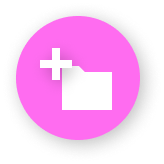
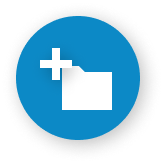
Add new look and buttons

diff --git a/src/stateful_components/Drive/Drive.js b/src/stateful_components/Drive/Drive.js
@@ -10,8 +10,9 @@ import fileUtils from '../../utils/fileUtils';
 import { getBreadcrumbsFromUrl } from '../../utils/url';
 import ACLController from 'your-acl';
 import FileCreation from '../../functional_components/FileCreation/FileCreation';
-import { folder } from '../../assets/icons/externalIcons';
+import folder from '../../assets/icons/Folder.png';
 import fileIcon from '../../assets/icons/File.png';
+import Buttons from '../../functional_components/Buttons/Buttons';
 
 class Drive extends React.Component {
     constructor(props) {
@@ -29,7 +30,7 @@ class Drive extends React.Component {
         this.createFolder = this.createFolder.bind(this);
         this.createFile = this.createFile.bind(this);
         this.followPath = this.followPath.bind(this);
-        this.uploadFile = this.uploadFile.bind(this);
+        this.uploadFolder = this.uploadFolder.bind(this);
         this.loadFile = this.loadFile.bind(this);
         this.loadCurrentFolder = this.loadCurrentFolder.bind(this);
         this.clearSelection = this.clearSelection.bind(this);
@@ -203,8 +204,14 @@ class Drive extends React.Component {
         }
     }
 
-    selectFolder(files) {
-        console.log(files)
+    uploadFolder(files) {
+        for (let file = 0; file < files.length; file++) {
+            fileUtils.uploadFolderOrFile(
+                files[file],
+                this.state.currPath +
+                    encodeURIComponent(files[file].webkitRelativePath)
+            );
+        }
     }
 
     componentWillUnmount() {
@@ -254,9 +261,12 @@ class Drive extends React.Component {
                                 image={fileIcon}
                                 onItemClick={this.loadFile}
                             />
-                            <FileCreation folder onClick={this.createFolder} />
-                            <FileCreation onClick={this.createFile} />
-                            <FileUpload onChange={this.selectFolder} />
+                            <Buttons>
+                                onFileCreation={this.createFile}
+                                onFolderCreation={this.createFolder}
+                                onFolderUpload={this.uploadFolder}
+                                onFileUpload={this.uploadFile}
+                            </Buttons>
                         </div>
                     )}
                 </div>

diff --git a/src/utils/fileUtils.js b/src/utils/fileUtils.js
@@ -1,4 +1,6 @@
 import rdf from 'rdflib';
+import auth from 'solid-auth-client';
+import { folder } from '../assets/icons/externalIcons';
 
 function getContentType(file) {
     const mimeTypes = {
@@ -21,6 +23,45 @@ function getContentType(file) {
     } else {
         return 'folder';
     }
+}
+
+function uploadFolderOrFile(file, url) {
+    const store = rdf.graph();
+    const fetcher = new rdf.Fetcher(store);
+
+    const fileNameFragments = file.name.split('/');
+    const fileName = fileNameFragments[fileNameFragments.length - 1];
+    const fileType = file.type ? file.type : 'text/plain';
+
+    const reader = new FileReader();
+    reader.onload = function() {
+        const data = this.result;
+        const filename = encodeURIComponent(fileName);
+
+        fetcher
+            .webOperation('PUT', url, {
+                data: data,
+                contentType: fileType,
+            })
+            .then((response) => {
+                if (response.status === 201) {
+                    console.log('Successfully uploaded!');
+                }
+            });
+    };
+    reader.readAsArrayBuffer(file);
+
+    // // const fileType
+    // const request = {
+    //     method: 'POST',
+    //     headers: {
+    //         slug: folderName,
+    //         link: '<http://www.w3.org/ns/ldp#BasicContainer>; rel="type"',
+    //         contentType: 'text-turtle',
+    //     },
+    // };
+
+    // auth.fetch(url, request).then(() => {});
 }
 
 function uploadFile(filePath, currPath) {
@@ -48,4 +89,8 @@ function uploadFile(filePath, currPath) {
     reader.readAsArrayBuffer(filePath);
 }
 
-export default { uploadFile: uploadFile, getContentType: getContentType };
+export default {
+    uploadFile: uploadFile,
+    getContentType: getContentType,
+    uploadFolderOrFile: uploadFolderOrFile,
+};

diff --git a/src/functional_components/FileUpload/FileUpload.js b/src/functional_components/FileUpload/FileUpload.js
@@ -1,22 +1,27 @@
 import React from 'react';
-import styles from './FileUpload.module.css';
-import icon from './FileUpload.png';
+import styles from '../FileCreation/FileCreation.module.css';
+import fileIcon from './FileUpload.png';
+import folderIcon from './FolderUpload.png';
 
 const FileUpload = (props) => {
     return (
         <label htmlFor="fileUpload">
-            <img src={icon} className={styles.icon} alt="file upload icon" />
+            <img
+                src={props.folder ? folderIcon : fileIcon}
+                className={props.folder ? styles.icon : styles.icon}
+                alt="file upload icon"
+            />
             <input
                 type="file"
                 onChange={(e) => {
                     props.onChange(e.target.files);
                 }}
-                webkitdirectory="true"
-                mozdirectory="true"
-                msdirectory="true"
-                odirectory="true"
-                directory="true"
-                multiple
+                webkitdirectory={props.folder ? 'true' : undefined}
+                mozdirectory={props.folder ? 'true' : undefined}
+                msdirectory={props.folder ? 'true' : undefined}
+                odirectory={props.folder ? 'true' : undefined}
+                directory={props.folder ? 'true' : undefined}
+                multiple={props.folder ? 'true' : undefined}
                 style={{ display: 'none' }}
                 id="fileUpload"
                 accept="*/*"

diff --git a/src/functional_components/FileCreation/FileCreation.js b/src/functional_components/FileCreation/FileCreation.js
@@ -1,13 +1,25 @@
 import React from 'react';
-import fileStyles from './FileCreation.module.css';
-import folderStyles from './FolderCreation.module.css';
+import styles from './FileCreation.module.css';
 import fileIcon from './FileCreation.png';
-import folderIcon from "./FolderCreation.png";
+import folderIcon from './FolderCreation.png';
 
 const FileCreation = (props) => {
-    const fileCreationMarkup = props.folder ? 
-        <img src={folderIcon} className={folderStyles.icon} onClick={() => props.onClick()} alt="file creation icon" /> : <img src={fileIcon} className={fileStyles.icon} onClick={() => props.onClick()} alt="file creation icon" />
-    
+    const fileCreationMarkup = props.folder ? (
+        <img
+            src={folderIcon}
+            className={styles.icon}
+            onClick={() => props.onClick()}
+            alt="file creation icon"
+        />
+    ) : (
+        <img
+            src={fileIcon}
+            className={styles.icon}
+            onClick={() => props.onClick()}
+            alt="file creation icon"
+        />
+    );
+
     return fileCreationMarkup;
 };
 

diff --git a/src/functional_components/FileCreation/FileCreation.module.css b/src/functional_components/FileCreation/FileCreation.module.css
@@ -1,39 +1,10 @@
 .icon{
-    position: fixed;
-    height: 100px;
-    width: 100px;
-    opacity: .9;
+    height: 80px;
+    width: 80px;
+    opacity: .7;
 }
 
 .icon:hover{
     cursor: pointer;
     opacity: 1;
-}
-
-@media (max-width: 415px){
-    .icon{
-        bottom: 30%;
-        right: 10%;
-    }
-}
-
-@media (min-width: 415px) and (max-width: 1100px){
-    .icon{
-        bottom: 32%;
-        right: 13%;
-    }
-}
-
-@media (min-width: 1100px) and (max-width: 1700px){
-    .icon{
-        bottom: 32%;
-        right: 18%;
-    }
-}
-
-@media (min-width: 1700px){
-    .icon{
-        bottom: 32%;
-        right: 25%;
-    }
 }

diff --git a/src/functional_components/Buttons/Buttons.js b/src/functional_components/Buttons/Buttons.js
@@ -1,0 +1,18 @@
+import React from 'react';
+import styles from './Buttons.module.css';
+import FileUpload from '../FileUpload';
+import FolderUpload from '../FileUpload';
+import FileCreation from '../FileCreation';
+
+const Buttons = (props) => {
+    return (
+        <div className={styles.buttonContainer}>
+            <FileCreation onClick={props.onFileCreation} />
+            <FileCreation folder onClick={props.onFolderCreation} />
+            <FileUpload folder onClick={props.onFolderUpload} />
+            <FileUpload onClick={props.onFileUpload} />
+        </div>
+    );
+};
+
+export default Buttons;

diff --git a/src/functional_components/FileUpload/FileUpload.module.css b/src/functional_components/FileUpload/FileUpload.module.css
@@ -1,39 +1,4 @@
-.icon{
-    position: fixed;
-    height: 100px;
-    width: 100px;
-    opacity: .9;
-}
-
 .icon:hover{
     cursor: pointer;
     opacity: 1;
-}
-
-@media (max-width: 415px){
-    .icon{
-        bottom: 10%;
-        right: 10%;
-    }
-}
-
-@media (min-width: 415px) and (max-width: 1100px){
-    .icon{
-        bottom: 8%;
-        right: 13%;
-    }
-}
-
-@media (min-width: 1100px) and (max-width: 1700px){
-    .icon{
-        bottom: 8%;
-        right: 18%;
-    }
-}
-
-@media (min-width: 1700px){
-    .icon{
-        bottom: 8%;
-        right: 25%;
-    }
 }

diff --git a/src/functional_components/Buttons/Buttons.module.css b/src/functional_components/Buttons/Buttons.module.css
@@ -1,0 +1,9 @@
+.buttonContainer{
+        position: fixed;
+        display: flex;
+        bottom: 50px;
+        right: 50px;
+        flex-direction: column;
+        justify-content: flex-end;
+        opacity: .9;
+}
